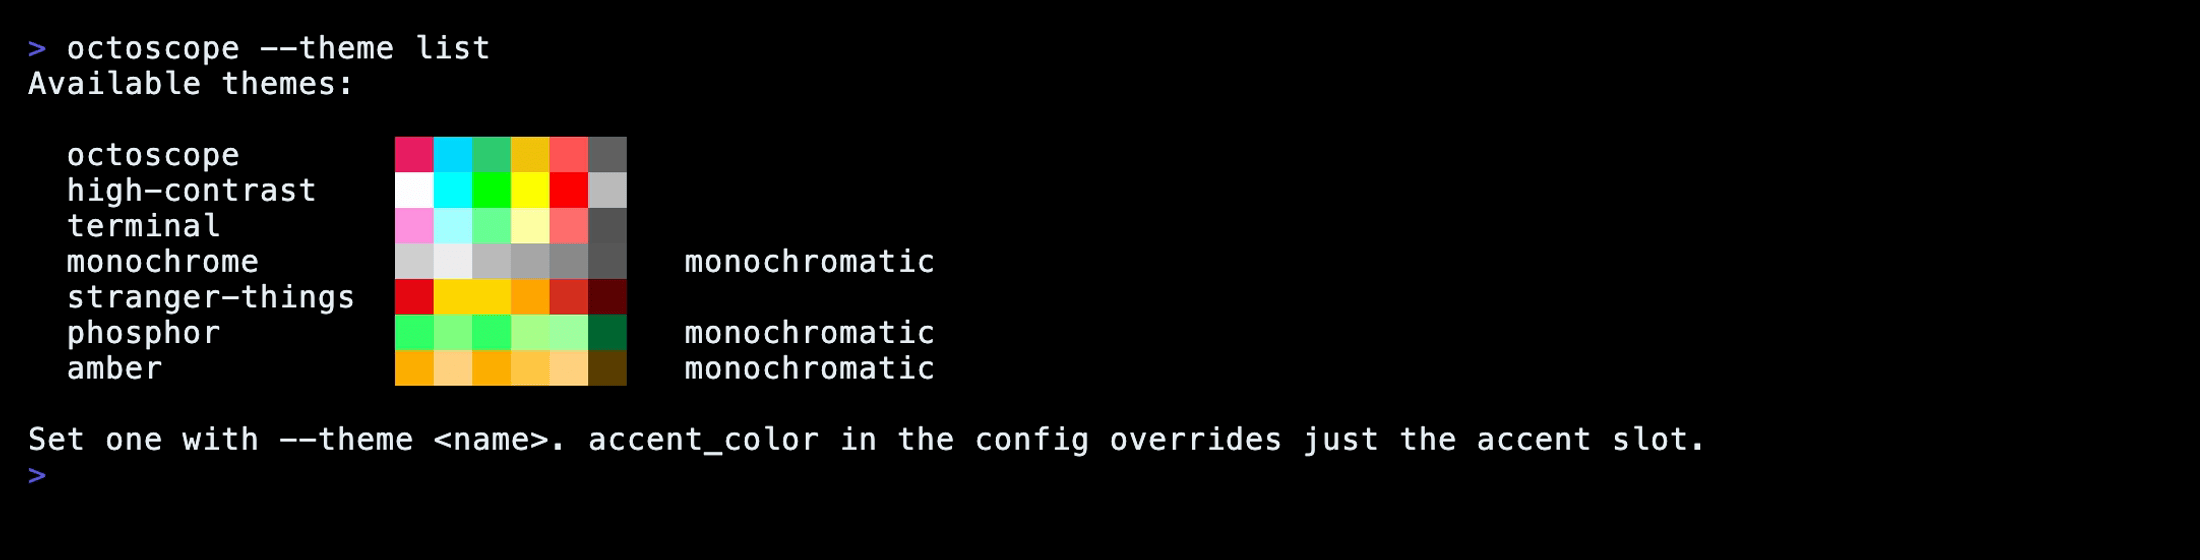
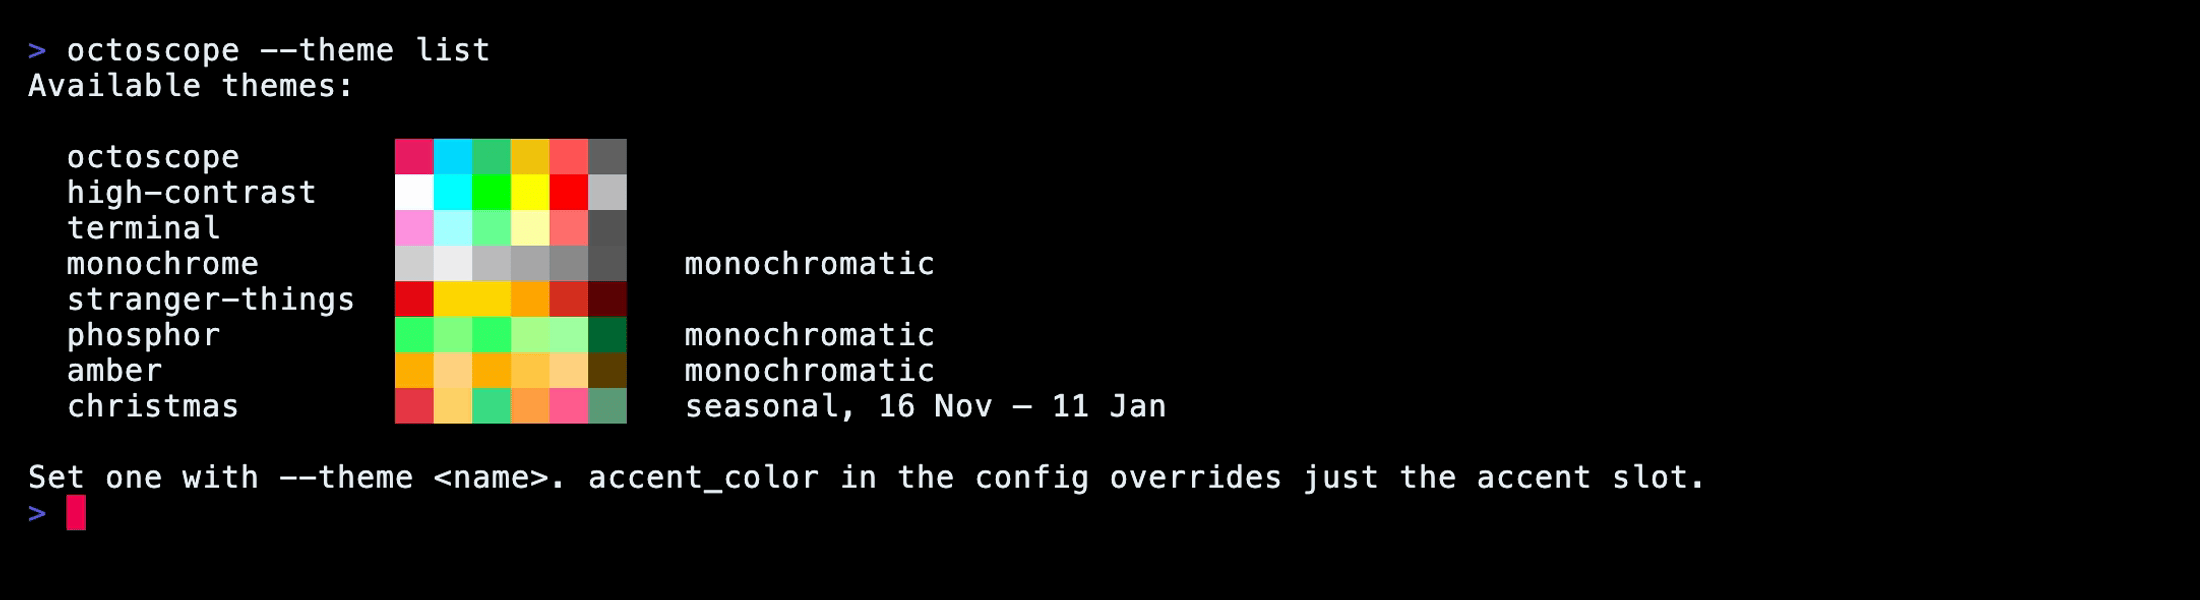
docs: the christmas theme and the seasonal_theme key
README, the guide's Themes, Configuration and Flags pages, the landing's
theme count, the --theme list still (eight palettes) and a christmas
still for the README. tapes: a christmas tape, and the note that a tape
typing plain octoscope renders the seasonal theme in season.

Changed region(s): [[0.0309, 0.2125, 0.5255, 0.7286], [0.0, 0.7589, 0.7727, 0.8804], [0.0, 0.0607, 0.2164, 0.1821]]

diff --git a/docs/guide/themes.html b/docs/guide/themes.html
@@ -4,7 +4,7 @@
 <meta charset="utf-8" />
 <meta name="viewport" content="width=device-width, initial-scale=1" />
 <title>Themes · octoscope docs</title>
-<meta name="description" content="Seven built-in palettes, --theme list previews, NO_COLOR and accent overrides." />
+<meta name="description" content="Eight built-in palettes, one of them seasonal, --theme list previews, NO_COLOR and accent overrides." />
 <link rel="canonical" href="https://gfazioli.github.io/octoscope/guide/themes.html" />
 <link rel="icon" type="image/png" sizes="32x32" href="../icons/favicon-32.png" />
 <link rel="icon" type="image/png" sizes="16x16" href="../icons/favicon-16.png" />
@@ -12,7 +12,7 @@
 <meta property="og:type" content="article" />
 <meta property="og:site_name" content="octoscope" />
 <meta property="og:title" content="Themes · octoscope docs" />
-<meta property="og:description" content="Seven built-in palettes, --theme list previews, NO_COLOR and accent overrides." />
+<meta property="og:description" content="Eight built-in palettes, one of them seasonal, --theme list previews, NO_COLOR and accent overrides." />
 <meta property="og:url" content="https://gfazioli.github.io/octoscope/guide/themes.html" />
 <meta property="og:image" content="https://gfazioli.github.io/octoscope/icons/og-image-v2.jpg" />
 <meta property="og:image:width" content="1280" />
@@ -32,7 +32,7 @@
       <article class="page">
         <p class="eyebrow">Guide</p>
         <h1>Themes</h1>
-        <p class="lead">Seven built-in palettes, three of them monochromatic. Pick one and octoscope repaints instantly — no restart.</p>
+        <p class="lead">Eight built-in palettes, three of them monochromatic and one seasonal. Pick one and octoscope repaints instantly — no restart.</p>
 
         <p>Set a theme on the command line, in the config file, or cycle through them live in the settings panel:</p>
         <div class="code">
@@ -45,7 +45,7 @@
         <figure class="shot">
           <div class="frame">
             <div class="bar"><i></i><i></i><i></i><span class="ttl">octoscope --theme list</span></div>
-            <img src="../screenshots/theme-list.png" alt="Output of octoscope --theme list: the seven palettes, each with a colour swatch, three tagged monochromatic" loading="lazy" />
+            <img src="../screenshots/theme-list.png" alt="Output of octoscope --theme list: the eight palettes, each with a colour swatch, three tagged monochromatic and christmas tagged seasonal" loading="lazy" />
           </div>
         </figure>
 
@@ -62,6 +62,16 @@
           <span class="ic">◑</span>
           <p>octoscope honours <code>NO_COLOR</code> and <code>--no-color</code>: both force the zero-chroma <code>monochrome</code> palette for that run, without touching the theme saved in your config.</p>
         </div>
+
+        <h2>The seasonal theme</h2>
+        <p>From <b>16 November to 11 January</b>, every year, the <code>christmas</code> theme stands in for the default one by itself: Santa red, candle gold and pine-green borders, a string of lights and falling snow beside the banner, a candy-cane banner frame, and the octopus in Santa's trim. The lights and the snow move on the one-second tick the footer already runs on, so nothing extra runs at rest.</p>
+        <p>It only ever replaces the <b>default</b> theme, and it is never saved as your theme — on 12 January the default is back, also in a session left running across the date. A theme you picked stays; <code>--theme NAME</code>, <code>--theme octoscope</code> included, keeps the season out of that run; <code>NO_COLOR</code> wins as always. To turn it off for good:</p>
+        <div class="code">
+          <button class="copy">copy</button>
+          <pre><span class="cmt"># ~/.config/octoscope/config.toml</span>
+seasonal_theme = <span class="val">false</span></pre>
+        </div>
+        <p>The same switch is the <b>Seasonal theme</b> row of the settings panel (<kbd>,</kbd>). And <code>--theme christmas</code> works on any day of the year: it is a built-in like the others.</p>
 
         <h2>Just the accent</h2>
         <p>Keep a theme but override its accent colour — hex or an ANSI-256 index — from the config file or the settings panel (<kbd>,</kbd>):</p>

diff --git a/docs/guide/settings.html b/docs/guide/settings.html
@@ -55,6 +55,8 @@ compact = <span class="val">false</span>
 <span class="cmt"># Theme + optional accent override (#RGB / #RRGGBB or 0-255).</span>
 theme = <span class="val">"octoscope"</span>
 accent_color = <span class="val">""</span>
+<span class="cmt"># christmas stands in for the default theme, 16 Nov – 11 Jan.</span>
+seasonal_theme = <span class="val">true</span>
 
 <span class="cmt"># Seed the list tabs at startup.</span>
 default_sort         = <span class="val">""</span>   <span class="cmt"># pushed|stars|forks|name|ci|release|updated|repo|number</span>
@@ -85,7 +87,8 @@ dashboard_cache      = <span class="val">true</span></pre>
             <tr><td class="k"><code>refresh_<wbr>interval</code></td><td>Go duration (<code>30s</code>, <code>1m</code>, <code>5m</code>). Default <code>"1m"</code>; anything below 5s is floored to 5s.</td></tr>
             <tr><td class="k"><code>public_<wbr>only</code></td><td>Hide private items from the lists. Default <code>false</code>. Toggle live with <kbd>p</kbd>.</td></tr>
             <tr><td class="k"><code>compact</code></td><td>Denser Overview cards. Default <code>false</code>.</td></tr>
-            <tr><td class="k"><code>theme</code></td><td>One of the seven palettes. Default <code>"octoscope"</code>. See <a href="themes.html">Themes</a>.</td></tr>
+            <tr><td class="k"><code>theme</code></td><td>One of the eight palettes. Default <code>"octoscope"</code>. See <a href="themes.html">Themes</a>.</td></tr>
+            <tr><td class="k"><code>seasonal_<wbr>theme</code></td><td>Let the seasonal <code>christmas</code> theme stand in for the default one from 16 November to 11 January. Default <code>true</code>. It never replaces a theme you chose and is never saved as your theme; <code>false</code> keeps the default all year. See <a href="themes.html">Themes</a>.</td></tr>
             <tr><td class="k"><code>accent_<wbr>color</code></td><td>Override just the accent — <code>#RGB</code> / <code>#RRGGBB</code> or an ANSI-256 index. Default empty (theme's own).</td></tr>
             <tr><td class="k"><code>default_<wbr>sort</code></td><td>Seed the list sort: <code>pushed · stars · forks · name · ci · release · commits</code> (Repos; <code>commits</code> applies only with <code>commit_counts</code> on) or <code>updated · repo · number</code> (PRs/Issues).</td></tr>
             <tr><td class="k"><code>default_<wbr>work_<wbr>filter</code></td><td>Seed the Repos work filter: <code>prs-open · ci-broken · stale</code>.</td></tr>
@@ -102,7 +105,7 @@ dashboard_cache      = <span class="val">true</span></pre>
         <p>A malformed <code>pinned_*</code> or <code>watch_repos</code> entry is dropped quietly rather than failing the whole file; an invalid <code>theme</code> / <code>default_*</code> value is rejected loudly at startup with the accepted set named.</p>
 
         <h2>The in-app settings panel</h2>
-        <p>Press <kbd>,</kbd> for a live panel: refresh interval, compact and public-only toggles, the theme cycler, the <b>accent colour</b> override and the <b>sponsor splash</b> toggle. Save (<kbd>Enter</kbd>) applies immediately and writes back to the file — atomically, comments intact, and no key you didn't touch is ever dropped.</p>
+        <p>Press <kbd>,</kbd> for a live panel: refresh interval, compact and public-only toggles, the theme cycler, the <b>seasonal theme</b> toggle, the <b>accent colour</b> override and the <b>sponsor splash</b> toggle. Save (<kbd>Enter</kbd>) applies immediately and writes back to the file — atomically, comments intact, and no key you didn't touch is ever dropped.</p>
 
         <div class="pager">
           <a href="themes.html"><small>Previous</small><b>← Themes</b></a>

diff --git a/docs/guide/flags.html b/docs/guide/flags.html
@@ -47,7 +47,7 @@
             <tr><td class="k"><code>--public-only</code></td><td>Hide private repos / PRs / issues from the lists.</td></tr>
             <tr><td class="k"><code>--no-sponsor</code></td><td>Skip the sponsor splash for this run.</td></tr>
             <tr><td class="k"><code>--no-color</code></td><td>Force the zero-chroma monochrome theme (also honoured via <code>NO_COLOR</code>).</td></tr>
-            <tr><td class="k"><code>--theme</code> <span style="color:var(--muted)">NAME</span></td><td>Pick a palette. See <a href="themes.html">Themes</a>.</td></tr>
+            <tr><td class="k"><code>--theme</code> <span style="color:var(--muted)">NAME</span></td><td>Pick a palette, and keep the <a href="themes.html">seasonal theme</a> out of that run. See <a href="themes.html">Themes</a>.</td></tr>
             <tr><td class="k"><code>--config</code> <span style="color:var(--muted)">PATH</span></td><td>Read config from PATH instead of the default location.</td></tr>
             <tr><td class="k"><code>-v</code> · <code>--version</code></td><td>Print the version and exit.</td></tr>
             <tr><td class="k"><code>-h</code> · <code>--help</code></td><td>Print usage and exit.</td></tr>

diff --git a/docs/index.html b/docs/index.html
@@ -2108,7 +2108,7 @@
                 </div>
                 <div class="theme-carousel-slide">
                     <img src="themes/theme-phosphor.png" alt="octoscope in the phosphor CRT-green theme" width="3400" height="2140" loading="lazy" decoding="async" />
-                    <div class="theme-carousel-caption"><strong>phosphor</strong> — one of seven built-in themes</div>
+                    <div class="theme-carousel-caption"><strong>phosphor</strong> — one of eight built-in themes</div>
                 </div>
                 <div class="theme-carousel-slide">
                     <img src="themes/theme-stranger-things.png" alt="octoscope in the stranger-things theme" width="3400" height="2140" loading="lazy" decoding="async" />

diff --git a/README.md b/README.md
@@ -1011,7 +1011,7 @@ octoscope --scan --json | jq -r '.repositories[] | select(.verdict == "suspiciou
 
 ## Themes
 
-octoscope ships with **seven built-in themes**. Pick one with
+octoscope ships with **eight built-in themes**. Pick one with
 `--theme NAME`, the `theme` config key, or cycle through them live
 in the in-app settings panel (`,` → arrow down to *Theme* → `←` /
 `→`). The panel also edits the **accent colour** override and the
@@ -1027,6 +1027,7 @@ were previously file-only.
 | `stranger-things` | Crimson + Christmas-lights yellow on an "Upside Down" muted |
 | `phosphor` | 80s P1/P31 CRT pure green — vt100 vibe |
 | `amber` | 80s amber CRT (IBM 5151, WordStar) |
+| `christmas` | Santa red, candle gold and evergreen, under a string of lights — and [seasonal](#seasonal-theme) |
 
 Three of them, side by side:
 
@@ -1050,6 +1051,32 @@ the dashboard's banner (both since v0.36.0), are drawn in the theme too:
 body in the accent, eyes and periscope lens in the value colour, so an
 accent override recolours them. Monochromatic themes — and `NO_COLOR`,
 which forces one — draw them as a one-colour silhouette.
+
+### Seasonal theme
+
+From **16 November to 11 January**, every year, octoscope dresses up on
+its own: the `christmas` theme stands in for the default one. Santa red,
+candle gold and pine-green borders; a string of lights and falling snow
+beside the banner, a candy-cane banner frame, and the octopus in Santa's
+trim. The lights chase and the snow falls on the one-second tick the
+footer's "Updated Xs ago" already runs on, so it costs nothing extra at
+rest.
+
+<img src="docs/themes/theme-christmas.png" alt="octoscope in the christmas theme: red titles, gold numbers, pine-green borders, a string of coloured lights and snow beside the banner" />
+
+It only ever replaces the **default** theme, and it is never written to
+your config file — on 12 January the default is simply back, also in a
+session left running across the date:
+
+- picked another theme (config, settings panel)? It stays;
+- `--theme NAME` on the command line — `--theme octoscope` included —
+  keeps the season out of that run;
+- `NO_COLOR` / `--no-color` win, as always;
+- `seasonal_theme = false` in the config, or the *Seasonal theme* row of
+  the settings panel, turns it off for good.
+
+Want it in July? `--theme christmas`, or pick it in the settings panel:
+it is a built-in like the others.
 
 ### No colour
 
@@ -1089,8 +1116,14 @@ public_only = false
 compact = false
 
 # Visual theme. Built-in: octoscope (default), high-contrast,
-# terminal, monochrome, stranger-things, phosphor, amber.
+# terminal, monochrome, stranger-things, phosphor, amber, christmas.
 theme = "octoscope"
+
+# Let a seasonal theme stand in for the default one while it is in
+# season: christmas, from 16 November to 11 January. It never replaces
+# a theme you chose, and it is never saved as your theme. Set to false
+# to keep the default theme all year.
+seasonal_theme = true
 
 # Initial view preferences (v0.23.0+). One sort key seeds every tab
 # whose sort cycle has that column: pushed | stars | forks | name |

diff --git a/internal/ui/AGENTS.md b/internal/ui/AGENTS.md
@@ -128,3 +128,34 @@ New renderers that introduce external semantic colour are
 expected to honour `IsMonochromatic()`. The flag is the contract;
 `monochrome.go` centralises the helpers so future surfaces have
 one place to look.
+
+#### Festive themes and the seasonal stand-in
+
+`Theme.Festive bool` (true for `christmas`) lets the header dress up:
+`festive.go` holds the string of lights and the snow beside the banner,
+the candy-cane banner frame and the Santa drawings of both mascots.
+
+- **Decoration only, and never a new timer.** The lights and the snow
+  are a pure function of `Model.clock`, which the one-second
+  `clockTickMsg` already advances; a festive dashboard at rest costs
+  what a plain one does. Nothing festive may carry data, change the
+  header's height, or draw past `available`.
+- **Same boxes.** `festiveBanner` is `bannerStyle`'s box cell for cell,
+  the Santa drawings have the plain mascots' size, eyes and lens cells:
+  every layout sum done for the plain header holds. The tests compare
+  them rather than restate the numbers.
+- **A festive theme is not monochromatic**; a test keeps the two flags
+  apart.
+
+A seasonal theme (`seasons` in `seasonal.go`) stands in for the
+**default** theme only, while in season:
+
+- `Model.theme` is the **stored** choice — what the config file and the
+  settings panel hold. What is on screen is `themeNow()`. Model code
+  calls `paintTheme()`, never `applyTheme` directly, and never persists
+  the painted theme: the season must not reach the file.
+- A theme that was chosen stays: a non-default `theme`, `--theme`
+  (`themePinned`, the default included), `NO_COLOR`. `seasonal_theme =
+  false` is the opt-out.
+- Dates are judged on `Model.clock`, not `time.Now()`, so tests pin the
+  date through `Options.Now` and `clockTickMsg`.

diff --git a/tapes/AGENTS.md b/tapes/AGENTS.md
@@ -103,6 +103,14 @@ tapes**, not a per-tape choice:
   transient retry), and filter list tabs to a stable public row before
   drilling in (the PR tapes filter `gantt` →
   `OctopBP/mantine-gantt-chart`).
+- **In season, a tape that types plain `octoscope` renders the
+  `christmas` theme.** From 16 November to 11 January the seasonal theme
+  stands in for the default one, in a tape as anywhere else, and the
+  lights and the snow beside the banner move every second, so two
+  captures of the same screen differ there. Add `--theme octoscope` to
+  the `Type` line when a still must show the default palette — naming a
+  theme keeps the season out of that run — and re-render the whole
+  drill-in set together if the carousel is retaken in season.
 - **`--public-only` is not the same as publishable.** It drops
   *private* repositories and nothing else, so a tab that lists other
   people's repositories — Inbox, PRs, Issues, the Activity feed —
